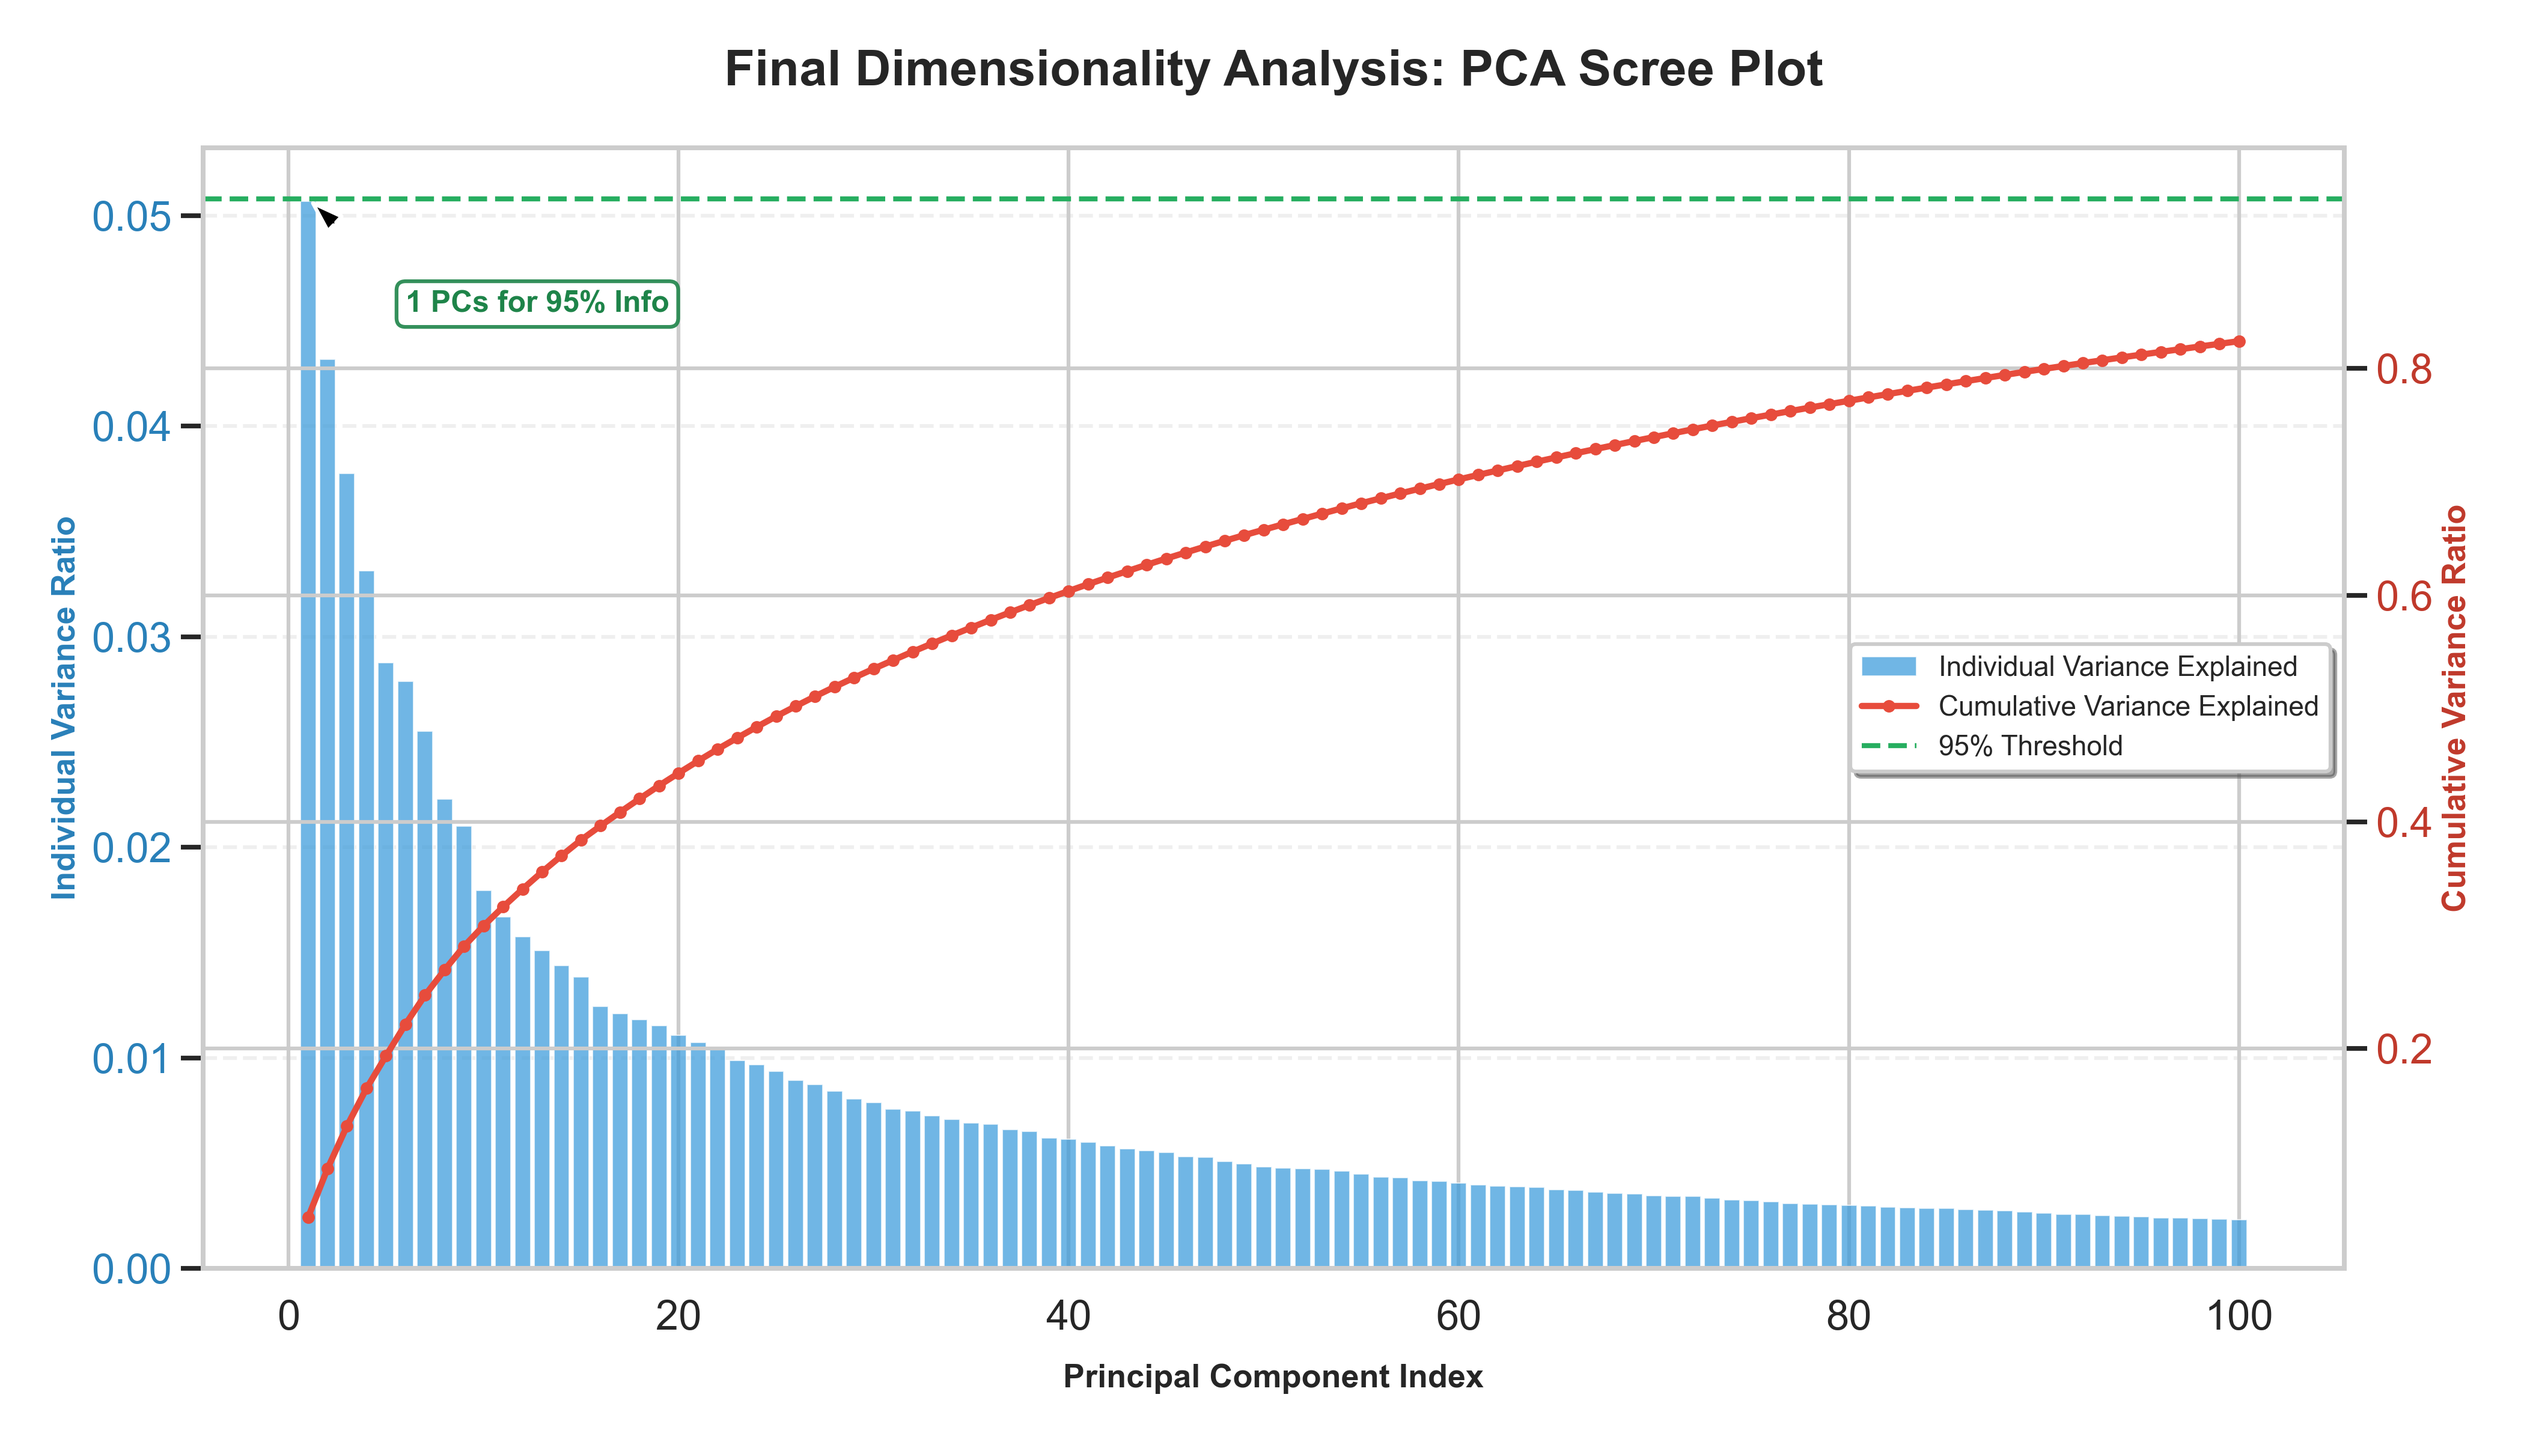
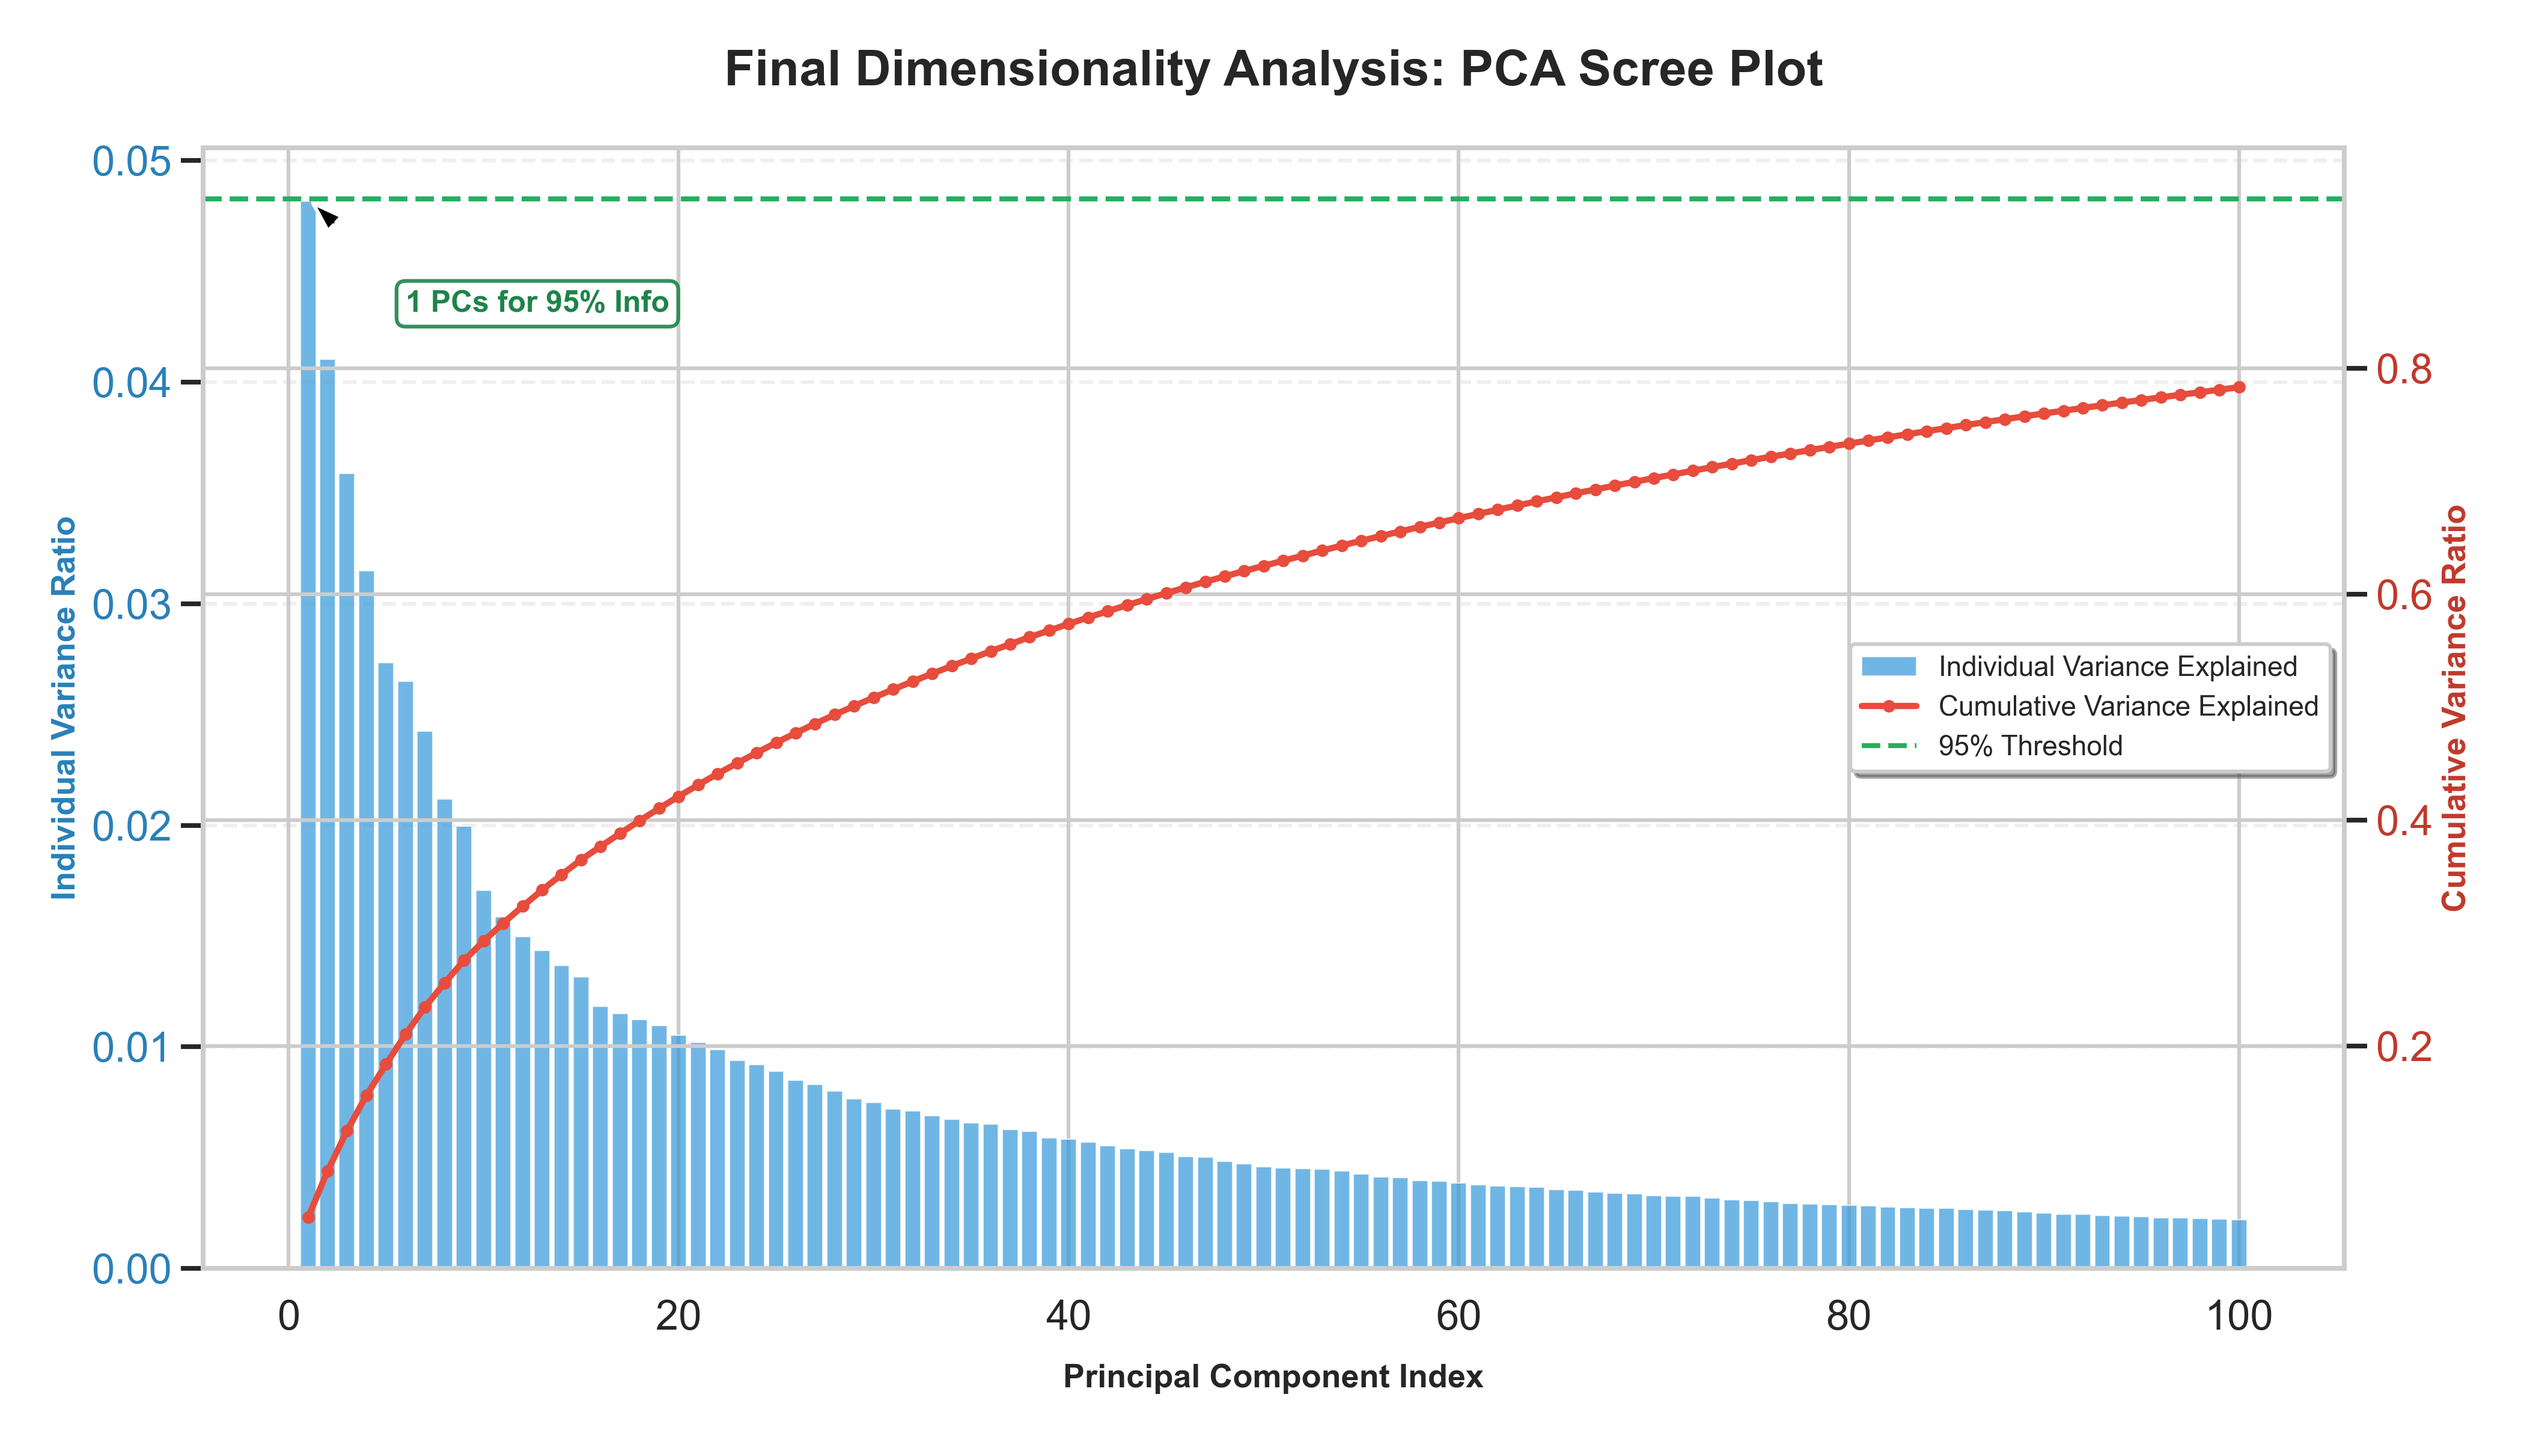
changed wrong input file

diff --git a/scree plot (p3).py b/scree plot (p3).py
@@ -14,7 +14,7 @@ def run_scree_analysis():
     Loads original dense embeddings and generates a high-fidelity Scree Plot 
     to visualize explained variance and justify dimension reduction.
     """
-    input_file = 'spider_reduced_embeddings.npz'
+    input_file = 'spider_final_embeddings.npz'
     
     if not os.path.exists(input_file):
         print(f"Error: '{input_file}' not found. Ensure Phase 1 is complete.")
